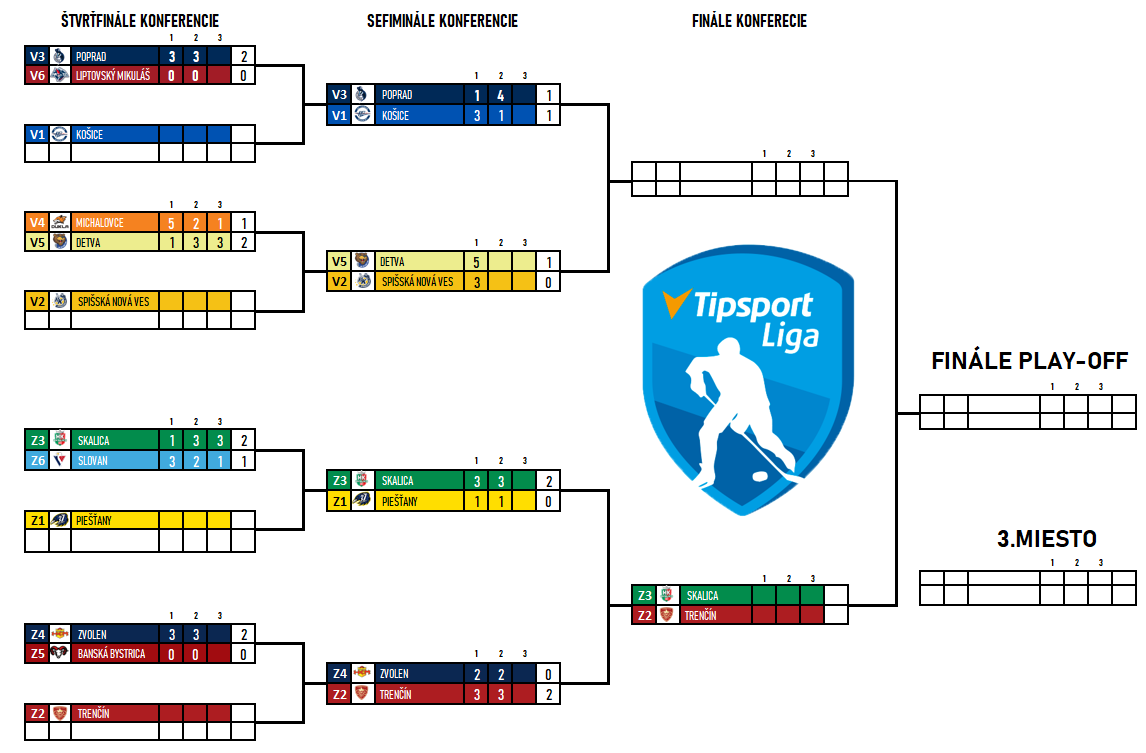
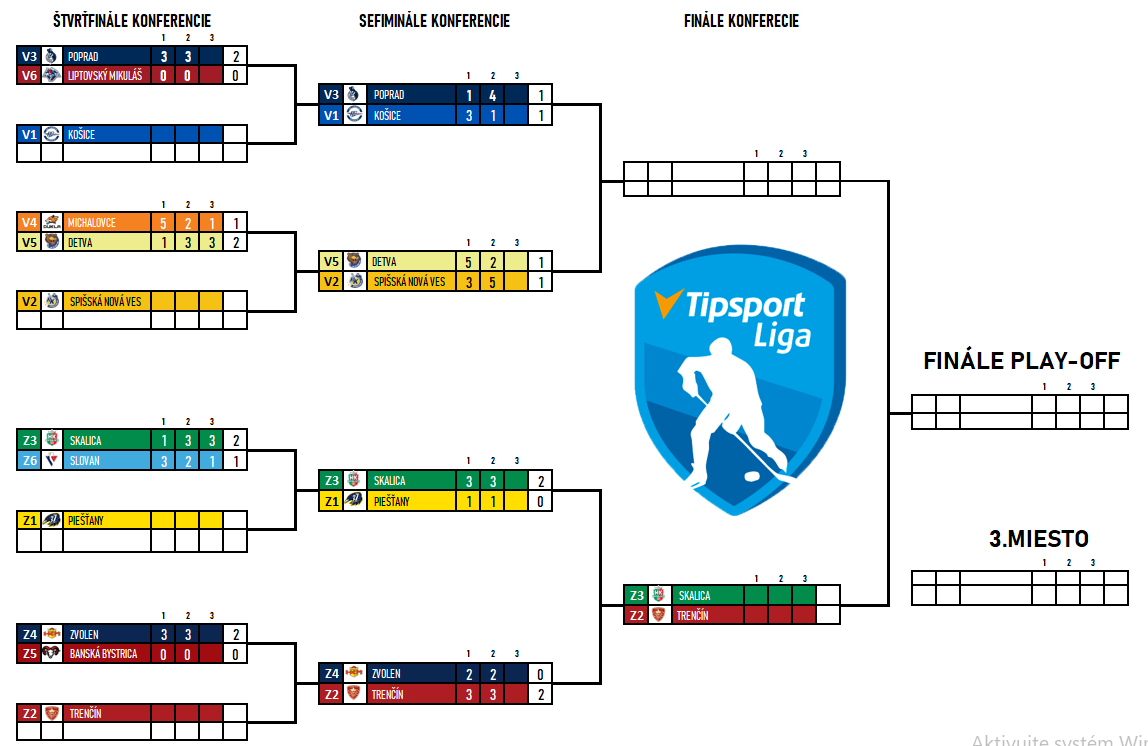
ss

diff --git a/play-off-rozpis.html b/play-off-rozpis.html
@@ -302,7 +302,7 @@
         <td class="club-name"><a href="https://www.hockeyarena.net/sk/index.php?p=public_team_info_basic.php&team_id=9011" style="text-decoration-style: none; color: black;">Košice</a></td>
       </tr>
       <tr>
-        <td  class="datum">3.zápas 18.7.2020</td>
+        <td class="naplanovane" class="datum">3.zápas 18.7.2020</td>
         <td class="logo"><img src="images/kosice.png" height="19"></td>
         <td class="club-name"><a href="https://www.hockeyarena.net/sk/index.php?p=public_team_info_basic.php&team_id=9011" style="text-decoration-style: none; color: black;">Košice</a></td>
         <td class="match"><b>:</b></td>
@@ -331,17 +331,17 @@
         <td class="naplanovane" class="datum">2.zápas 15.7.2020</td>
         <td class="logo"><img src="images/detva.png" height="19"></td>
         <td class="club-name"><a href="https://www.hockeyarena.net/sk/index.php?p=public_team_info_basic.php&team_id=58552" style="text-decoration-style: none; color: black;">Detva</a></td>
-        <td class="match"><b>:</b></td>
+        <td class="match"><b>2:5</b></td>
         <td class="logo"><img src="images/snv.png" height="19"></td>
         <td class="club-name"><a href="https://www.hockeyarena.net/sk/index.php?p=public_team_info_basic.php&team_id=25632" style="text-decoration-style: none; color: black;">Spišská</a></td>
       </tr>
       <tr>
-        <td class="datum">3.zápas 18.7.2020</td>
-        <td class="logo"></td>
-        <td class="club-name"></td>
+        <td class="naplanovane" class="datum">3.zápas 18.7.2020</td>
+        <td class="logo"><img src="images/snv.png" height="19"></td>
+        <td class="club-name"><a href="https://www.hockeyarena.net/sk/index.php?p=public_team_info_basic.php&team_id=25632" style="text-decoration-style: none; color: black;">Spišská</a></td>
         <td class="match"><b></b></td>
-        <td class="logo"></td>
-        <td class="club-name"></td>
+        <td class="logo"><img src="images/detva.png" height="19"></td>
+        <td class="club-name"><a href="https://www.hockeyarena.net/sk/index.php?p=public_team_info_basic.php&team_id=58552" style="text-decoration-style: none; color: black;">Detva</a></td>
       </tr>
 
       <tr>
